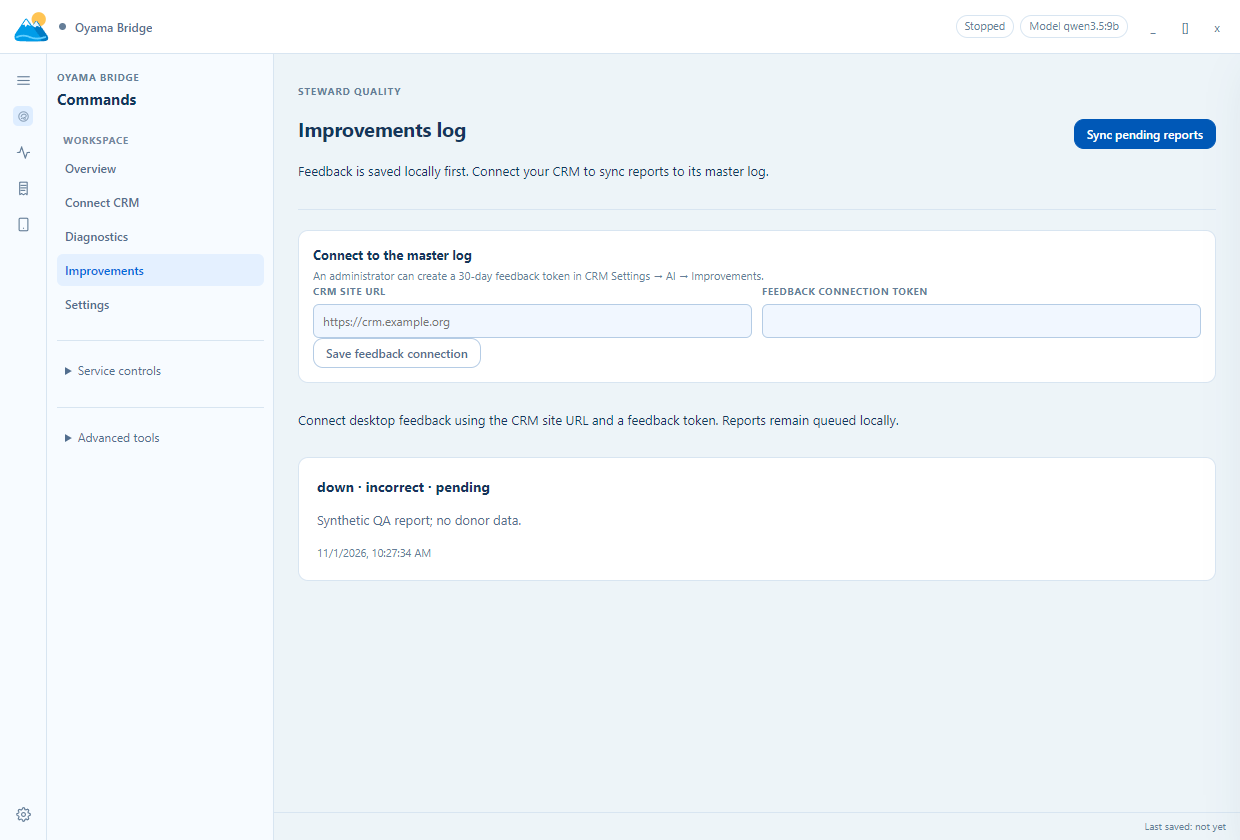
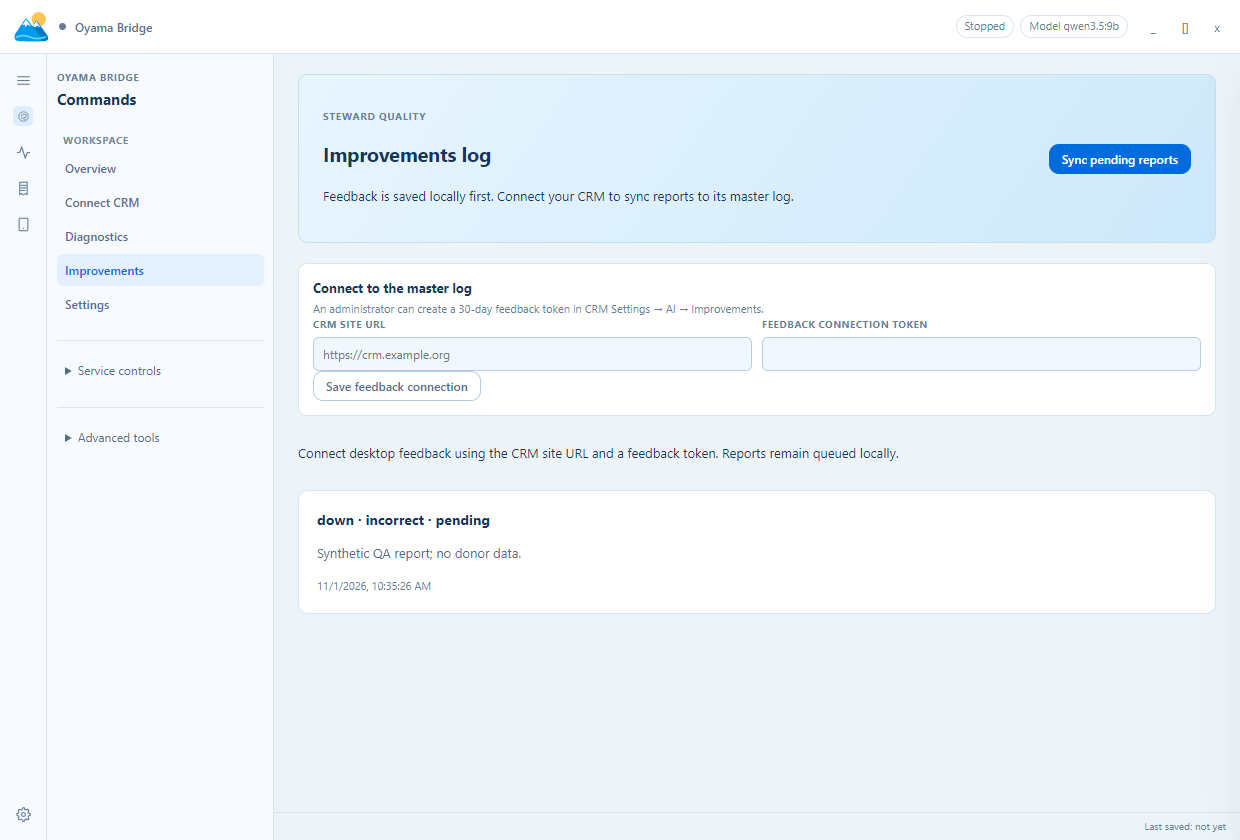
update

Changed region(s): [[0.2452, 0.0619, 0.9806, 0.4643], [0.2452, 0.4952, 0.7355, 0.7119]]

diff --git a/OyamaBridgeDesktopServer/index.html b/OyamaBridgeDesktopServer/index.html
@@ -92,8 +92,8 @@
         <section class="runtime-stage" aria-label="Ollama runtime control">
           <article class="runtime-banner panel">
             <div>
-              <span class="eyebrow">Reliable GPU control</span>
-              <h3>GPU pinning is only guaranteed when Oyama Bridge owns the Ollama process.</h3>
+              <span class="eyebrow">Runtime health</span>
+              <h3>Local AI service status</h3>
               <p id="ollamaRuntimeHintValue" class="panel-subtitle">Managed mode launches <span class="mono-inline">ollama serve</span> with isolated device visibility. External mode keeps your existing service unchanged.</p>
             </div>
             <div class="runtime-banner-actions">
@@ -106,7 +106,7 @@
             <div class="panel-head compact-head">
               <div>
                 <h2>Ollama Runtime</h2>
-                <p class="panel-subtitle">Mode, launch path, and GPU isolation contract.</p>
+                <p class="panel-subtitle">Service ownership and saved GPU configuration.</p>
               </div>
             </div>
             <div class="runtime-stack-grid">
@@ -183,7 +183,7 @@
           <article class="panel report-card wide">
             <div class="panel-head">
               <div>
-                <h2>Latency Trend</h2>
+                <h2>Response time</h2>
                 <p id="latencyTrendMeta" class="panel-subtitle">Waiting for request data...</p>
               </div>
             </div>
@@ -193,7 +193,7 @@
           <article class="panel report-card">
             <div class="panel-head">
               <div>
-                <h2>Status Mix</h2>
+                <h2>Request outcomes</h2>
                 <p id="statusMixMeta" class="panel-subtitle">No traffic yet.</p>
               </div>
             </div>
@@ -215,8 +215,8 @@
           <article class="panel live-log-shell">
             <div class="panel-head">
               <div>
-                <h2>Live Request Flow</h2>
-                <p class="panel-subtitle">Routes, status, latency, byte counts, and model metadata.</p>
+                <h2>Request history</h2>
+                <p class="panel-subtitle">Latest requests across restarts · up to 1,000 metadata records retained locally.</p>
               </div>
               <button class="btn ghost" type="button" data-tab-target="requests">Full Flow</button>
             </div>
@@ -233,7 +233,7 @@
           <aside class="panel generated-snapshot">
             <div class="panel-head">
               <div>
-                <h2>Generated Content</h2>
+                <h2>Recent responses</h2>
                 <p id="dashboardGeneratedMeta" class="panel-subtitle">Waiting for assistant output...</p>
               </div>
               <button class="btn ghost" type="button" data-tab-target="generated">Open Log</button>
@@ -250,7 +250,7 @@
               <h2>GPU Monitor</h2>
               <p id="gpuMonitorMeta" class="panel-subtitle">Reads live values from nvidia-smi.</p>
             </div>
-            <button class="btn ghost" type="button" data-tab-target="settings">CUDA Settings</button>
+            <button class="btn ghost" type="button" data-tab-target="settings">GPU settings</button>
           </div>
           <div id="gpuMonitorList" class="gpu-monitor-list">
             <p class="empty">No NVIDIA GPU telemetry available.</p>
@@ -322,7 +322,7 @@
           <article class="panel">
             <div class="panel-head">
               <div>
-                <h2>Generated Content Log</h2>
+                <h2>Recent responses Log</h2>
                 <p id="generatedContentMeta" class="panel-subtitle">Assistant output from chat/generate calls appears here in memory.</p>
               </div>
               <div class="row-inline">
@@ -398,7 +398,6 @@
 
           <section class="panel settings-card">
             <div class="panel-head"><h2>Model Runtime</h2></div>
-            <div class="field"><label for="stewardModelProfile">Steward v2 profile</label><select id="stewardModelProfile"><option value="">Keep configured models</option><option value="qwen3.8:27b">Quality candidate · Qwen3.8 27B · 24 GB+ GPU</option><option value="qwen3.5:9b">Balanced candidate · Qwen3.5 9B · 12–16 GB GPU</option></select><p class="field-hint">Sets both model fields; save to apply. Install the chosen tag with Ollama first. Model weights need additional memory for context; benchmark your actual workload. Existing saved settings are preserved.</p></div>
             <div class="form-grid">
               <div class="field"><label for="bridgeModelInput">Model</label><input id="bridgeModelInput" type="text" /></div>
               <div class="field"><label for="bridgeThinkingModelInput">Thinking Model</label><input id="bridgeThinkingModelInput" type="text" /></div>

diff --git a/OyamaDesktopCSharp/MainWindow.xaml b/OyamaDesktopCSharp/MainWindow.xaml
@@ -1,0 +1,1 @@
+<Window x:Class="OyamaDesktop.MainWindow" xmlns="http://schemas.microsoft.com/winfx/2006/xaml/presentation" xmlns:x="http://schemas.microsoft.com/winfx/2006/xaml" ThemeMode="Light" Title="Oyama Desktop CRM" FontFamily="Segoe UI Variable" FontSize="14" Width="1200" Height="800" MinWidth="760" MinHeight="600" Background="#F3F3F3"><DockPanel Margin="24"><Border DockPanel.Dock="Top" Background="#FFFFFF" CornerRadius="8" Padding="20" Margin="0,0,0,16"><StackPanel><TextBlock Text="OYAMA DESKTOP" FontSize="12"/><TextBlock x:Name="PageTitle" Text="Your connected workspace" FontSize="26" FontWeight="SemiBold"/><TextBlock Text="CRM and local tools, ready to grow with your team."/></StackPanel></Border><TextBlock DockPanel.Dock="Bottom" x:Name="Status" Text="Disconnected. Sign in to access your CRM." Margin="0,12" TextWrapping="Wrap"/><StackPanel DockPanel.Dock="Left" Width="155" Margin="0,0,16,0"><TextBlock Text="OYAMA CRM" FontWeight="Bold" FontSize="16" Margin="4,12"/><ListBox x:Name="Modules" DisplayMemberPath="Title" SelectionChanged="ModuleChanged" Background="Transparent" BorderThickness="0"/><Button Content="Sign out" Click="SignOut"/><TextBlock Text="Local files stay on&#10;this computer." Margin="8,20"/></StackPanel><Grid><Grid.RowDefinitions><RowDefinition Height="Auto"/><RowDefinition Height="Auto"/><RowDefinition Height="*"/><RowDefinition Height="Auto"/></Grid.RowDefinitions><StackPanel x:Name="LoginPanel"><TextBlock Text="CRM site"/><TextBox x:Name="Site" Text="https://www.crm.partnertpcc.com" AutomationProperties.Name="CRM site"/><WrapPanel><TextBlock Text="Email" VerticalAlignment="Center"/><TextBox x:Name="Email" Width="220" AutomationProperties.Name="Email"/><TextBlock Text="Password" VerticalAlignment="Center"/><PasswordBox x:Name="Password" Width="190" Padding="10" Margin="4" AutomationProperties.Name="Password"/><Button Content="Connect securely" Click="Connect"/></WrapPanel><WrapPanel x:Name="MfaPanel" Visibility="Collapsed"><TextBox x:Name="Code" Width="180" AutomationProperties.Name="Email verification code"/><Button Content="Verify code" Click="Verify"/></WrapPanel></StackPanel><WrapPanel Grid.Row="1"><TextBox x:Name="Search" Width="200" AutomationProperties.Name="Search CRM"/><Button Content="Search / refresh" Click="Refresh"/><Button Content="Open local file" Click="OpenFile"/><Button Content="Export rows" Click="Export"/></WrapPanel><DataGrid SelectionChanged="RecordSelected" AutoGeneratingColumn="GenerateColumn" ColumnWidth="*" HeadersVisibility="Column" RowHeight="38" ColumnHeaderHeight="38" x:Name="Records" Grid.Row="2" IsReadOnly="True" AutoGenerateColumns="True" CanUserAddRows="False" Background="White" RowBackground="White" AlternatingRowBackground="#FAFAFA" BorderBrush="#E5E5E5"/><StackPanel Grid.Row="2" HorizontalAlignment="Center" VerticalAlignment="Center" IsHitTestVisible="False"><StackPanel.Style><Style TargetType="StackPanel"><Setter Property="Visibility" Value="Collapsed"/><Style.Triggers><MultiDataTrigger><MultiDataTrigger.Conditions><Condition Binding="{Binding HasItems, ElementName=Records}" Value="False"/><Condition Binding="{Binding Visibility, ElementName=Records}" Value="Visible"/></MultiDataTrigger.Conditions><Setter Property="Visibility" Value="Visible"/></MultiDataTrigger></Style.Triggers></Style></StackPanel.Style><TextBlock Text="Your workspace, ready for work" FontSize="22" FontWeight="SemiBold" HorizontalAlignment="Center"/><TextBlock Text="Connect to load CRM records, or use Local files to work on this computer." TextWrapping="Wrap" MaxWidth="360" TextAlignment="Center" Margin="0,10"/></StackPanel><TextBox x:Name="Preview" Grid.Row="2" Visibility="Collapsed" IsReadOnly="True" AcceptsReturn="True" TextWrapping="Wrap" VerticalScrollBarVisibility="Auto"/><WrapPanel Grid.Row="3"><Button Content="Record details" Click="ShowDetails"/><Button Content="Previous" Click="Previous"/><TextBlock x:Name="PageLabel" VerticalAlignment="Center" Margin="10"/><Button Content="Next" Click="Next"/></WrapPanel></Grid></DockPanel></Window>

diff --git a/OyamaBridgeDesktopServer/styles.css b/OyamaBridgeDesktopServer/styles.css
@@ -1678,3 +1678,13 @@ body.sidebar-open .settings-backdrop { left: 274px; }
 .sidebar-utilities{border-top:1px solid var(--border);padding-top:12px}.sidebar-utilities summary{cursor:pointer;color:var(--ink-2);font-size:12px;padding:8px}.sidebar-utilities:not([open])>button{display:none}.bridge-next-step{display:flex;justify-content:space-between;align-items:center;gap:20px;border:1px solid var(--border);border-radius:10px;background:#e5f1ff;padding:18px 20px;margin-bottom:20px}.bridge-next-step strong{font-size:15px}.bridge-next-step p,.connect-crm-card>p{color:var(--ink-2);font-size:12px;line-height:1.6;margin:7px 0}.connect-crm-card{margin-bottom:20px}.connect-crm-card h2{font-size:22px}.connect-crm-card .btn{padding:10px 16px;margin-top:12px}#connectCrmStatus{overflow-wrap:anywhere}.response-feedback button{display:inline-flex;align-items:center;gap:6px}
 
 .legacy-pairing>summary{cursor:pointer;padding:10px 0;color:var(--ink-2);font-size:12px}.legacy-pairing:not([open])>:not(summary){display:none}
+
+/* Oyama CRM dashboard composition */
+.server-dashboard-header{background:linear-gradient(125deg,#e8f5ff,#cde9fa);border:1px solid #c5dfef;border-radius:10px;padding:24px;min-height:125px;position:relative;overflow:hidden}
+.server-title-block{background:#ffffffb8;border-radius:8px;padding:16px 20px}.server-title-block h2{color:#17375e;font-size:26px;letter-spacing:-.7px}
+.server-primary-actions{background:#ffffffc9;border-radius:8px;padding:6px}
+.server-metrics{grid-template-columns:repeat(4,minmax(0,1fr));gap:12px}.service-card{border-radius:9px;box-shadow:0 2px 5px #17375e08;padding:16px;min-height:95px}.service-card strong{color:#18385f}.card-label{letter-spacing:.04em}
+.runtime-stage{grid-template-columns:1fr}.runtime-stack{display:none}.runtime-banner h3{font-size:16px}.runtime-banner{padding:16px}
+.dashboard-reports{gap:14px}.dashboard-grid{gap:14px}.panel{border-radius:9px}.panel-head h2{font-size:15px;color:#17375e}
+.request-log-wrap th{background:#edf4fb;color:#355579}.request-log-wrap td{border-right:1px solid #e1eaf4}.request-log-wrap tr:nth-child(even){background:#f7faff}
+@media(max-width:900px){.server-metrics{grid-template-columns:repeat(2,minmax(0,1fr))}.server-dashboard-header{flex-wrap:wrap;gap:12px}}

diff --git a/OyamaBridgeDesktopServer/main.js b/OyamaBridgeDesktopServer/main.js
@@ -1,3 +1,4 @@
+const { readHistory, saveRequest } = require("./request-history");
 const { createImprovementsStore } = require("./improvements");
 const { BRIDGE_SYSTEM_POLICY, resolveBridgeSupport } = require("./steward-policy");
 // Main process for standalone Oyama Bridge app.
@@ -778,6 +779,7 @@ async function buildBridgeState() {
   const runtime = bridgeManager
     ? bridgeManager.getRuntimeState()
     : { running: false, startedAt: null, uptimeMs: 0, requestCount: 0, lastError: null, requestLog: [] };
+  runtime.requestLog = [...new Map([...(runtime.requestLog || []), ...readHistory(path.join(app.getPath("userData"), "request-history.json"))].map(row => [row.id, row])).values()].sort((a,b) => String(b.timestamp).localeCompare(String(a.timestamp))).slice(0,1000);
   const ollama = ollamaRuntimeManager
     ? await ollamaRuntimeManager.refreshHealth()
     : {
@@ -1007,6 +1009,7 @@ function emitBridgeEvent(payload) {
 
   if (payload && payload.type === "request" && payload.entry) {
     try {
+      saveRequest(path.join(app.getPath("userData"), "request-history.json"), payload.entry);
       recordUsageEntry(payload.entry);
       if (shouldCountAsModelActivity(payload.entry)) {
         scheduleIdleVramClear();

diff --git a/OyamaBridgeDesktopServer/renderer.js b/OyamaBridgeDesktopServer/renderer.js
@@ -1137,6 +1137,12 @@ function renderCudaSelector(cudaDevices, selectedValue) {
     bridgeCudaDeviceSelect.appendChild(option);
   });
 
+  if (selected !== "auto" && !Array.from(bridgeCudaDeviceSelect.options).some(option => option.value === selected)) {
+    const unavailable = document.createElement("option");
+    unavailable.value = selected;
+    unavailable.textContent = `GPU ${selected} — saved, currently unavailable`;
+    bridgeCudaDeviceSelect.appendChild(unavailable);
+  }
   bridgeCudaDeviceSelect.value = selected;
   updateActiveCudaReadout(cudaDevices, selected);
 }
@@ -2377,14 +2383,6 @@ window.addEventListener("keydown", (event) => {
 
 window.addEventListener("DOMContentLoaded", () => {
   void bootstrap();
-});
-
-// Explicit profile selection preserves existing saved deployments until staff apply a change.
-document.getElementById("stewardModelProfile")?.addEventListener("change", (event) => {
-  const model = event.target.value;
-  if (!["qwen3.8:27b", "qwen3.5:9b"].includes(model)) return;
-  document.getElementById("bridgeModelInput").value = model;
-  document.getElementById("bridgeThinkingModelInput").value = model;
 });
 
 function appendResponseFeedback(item, entry) {

diff --git a/OyamaBridgeDesktopServer/request-history.js b/OyamaBridgeDesktopServer/request-history.js
@@ -1,0 +1,12 @@
+const fs = require("node:fs");
+const fields = ["id", "requestId", "timestamp", "method", "path", "statusCode", "durationMs", "model", "errorClass", "bodyBytes", "responseBytes", "cudaDeviceRequested", "cudaDeviceApplied"];
+function readHistory(file) {
+  try { const rows = JSON.parse(fs.readFileSync(file, "utf8")); return Array.isArray(rows) ? rows.slice(0,1000) : []; } catch { return []; }
+}
+function saveRequest(file, entry) {
+  const safe = Object.fromEntries(fields.filter(key => typeof entry[key] === "string" || typeof entry[key] === "number").map(key => [key, typeof entry[key] === "string" ? entry[key].slice(0,300) : entry[key]]));
+  safe.path = String(safe.path || "/").split("?")[0];
+  const rows = [safe, ...readHistory(file).filter(row => row.id !== safe.id)].slice(0,1000);
+  fs.writeFileSync(file + ".tmp", JSON.stringify(rows), "utf8"); fs.renameSync(file + ".tmp", file);
+}
+module.exports = {readHistory, saveRequest};

diff --git a/OyamaBridgeDesktopServer/tests/request-history.test.js b/OyamaBridgeDesktopServer/tests/request-history.test.js
@@ -1,0 +1,2 @@
+const {test}=require("node:test"); const assert=require("node:assert/strict"); const fs=require("node:fs"); const os=require("node:os"); const path=require("node:path"); const {saveRequest,readHistory}=require("../request-history");
+test("history survives reload and excludes private payloads",()=>{ const dir=fs.mkdtempSync(path.join(os.tmpdir(),"oyama-history-")); try {const file=path.join(dir,"history.json");saveRequest(file,{id:"a",path:"/api/chat?key=secret",statusCode:200,generatedPreview:"private",apiKey:"secret"});delete require.cache[require.resolve("../request-history")];const rows=require("../request-history").readHistory(file);assert.deepEqual(rows,[{id:"a",path:"/api/chat",statusCode:200}]);saveRequest(file,{id:"a",statusCode:401});assert.equal(readHistory(file).length,1);}finally{fs.rmSync(dir,{recursive:true,force:true});}});

diff --git a/OyamaDesktopCSharp/App.xaml b/OyamaDesktopCSharp/App.xaml
@@ -1,0 +1,1 @@
+<Application x:Class="OyamaDesktop.App" xmlns="http://schemas.microsoft.com/winfx/2006/xaml/presentation" xmlns:x="http://schemas.microsoft.com/winfx/2006/xaml" />

diff --git a/OyamaDesktopCSharp/MainWindow.xaml.cs b/OyamaDesktopCSharp/MainWindow.xaml.cs
@@ -1,0 +1,38 @@
+using System.Data;
+using System.IO;
+using System.Text.Json;
+using System.Windows;
+using System.Windows.Controls;
+using Microsoft.Win32;
+using OyamaDesktop.Models;
+using OyamaDesktop.Services;
+namespace OyamaDesktop;
+public partial class MainWindow : Window {
+ CrmClient? client; string ticket=""; int page=1; bool busy; DataTable table=new();
+ WorkspaceModule? Selected => Modules.SelectedItem as WorkspaceModule;
+ public MainWindow() { InitializeComponent(); Modules.ItemsSource=SuiteModules.All; Modules.SelectedIndex=0; Closed+=(_,_)=>client?.Dispose(); }
+ async Task Run(Func<Task> action) { if(busy)return; busy=true; IsEnabled=false; Status.Text="Working…"; try {await action();}catch(Exception ex){Status.Text=ex.Message;}finally{busy=false;IsEnabled=true;} }
+ async void Connect(object sender,RoutedEventArgs e) => await Run(async()=>{ client?.Dispose(); client=new(new Uri(Site.Text.Trim())); var data=await client.SignInAsync(Email.Text.Trim(),Password.Password); Password.Clear(); if(data.TryGetProperty("mfaRequired",out var required)&&required.GetBoolean()){ticket=data.GetProperty("mfaTicket").GetString()??"";MfaPanel.Visibility=Visibility.Visible;Status.Text="Enter the verification code sent to your email.";}else await Connected(); });
+ async void Verify(object sender,RoutedEventArgs e)=>await Run(async()=>{if(client is null) return;await client.VerifyAsync(ticket,Code.Text.Trim());Code.Clear();await Connected();});
+ async Task Connected(){LoginPanel.Visibility=Visibility.Collapsed;MfaPanel.Visibility=Visibility.Collapsed;ticket="";await Load();}
+ async Task Load(){if(Selected?.ApiPath is not string endpoint){Status.Text="Local files · choose a text, CSV, JSON, or Markdown file. Files are never uploaded.";return;} if(client is null || LoginPanel.Visibility==Visibility.Visible){Status.Text="Sign in before loading CRM records.";return;} var json=await client.SendAsync(endpoint+"?page="+page+"&pageSize=50&limit=50&search="+Uri.EscapeDataString(Search.Text));var rows=json.ValueKind==JsonValueKind.Array?json:json.GetProperty("items");table=new();foreach(var row in rows.EnumerateArray())foreach(var field in row.EnumerateObject())if(!table.Columns.Contains(field.Name)&&field.Value.ValueKind is not (JsonValueKind.Array or JsonValueKind.Object))table.Columns.Add(field.Name);foreach(var row in rows.EnumerateArray()){var record=table.NewRow();foreach(DataColumn col in table.Columns)if(row.TryGetProperty(col.ColumnName,out var value))record[col]=value.ToString();table.Rows.Add(record);} Records.ItemsSource=table.DefaultView;PageLabel.Text=$"Page {page} · {table.Rows.Count} rows";Status.Text="Connected · showing this page only. Server permissions apply.";}
+ async void ModuleChanged(object sender,SelectionChangedEventArgs e){if(Records is null)return;page=1;table=new();Records.ItemsSource=null;PageTitle.Text=Selected?.Title??"Workspace";Preview.Visibility=Selected?.Id=="files"?Visibility.Visible:Visibility.Collapsed;Records.Visibility=Selected?.Id=="files"?Visibility.Collapsed:Visibility.Visible;await Run(Load);}
+ async void Refresh(object sender,RoutedEventArgs e){page=1;await Run(Load);}
+ async void Previous(object sender,RoutedEventArgs e){if(page>1){page--;await Run(Load);}}
+ async void Next(object sender,RoutedEventArgs e){if(table.Rows.Count==50){page++;await Run(Load);}}
+ async void OpenFile(object sender,RoutedEventArgs e){var dialog=new OpenFileDialog{Filter="Text files|*.txt;*.csv;*.json;*.md;*.log"};if(dialog.ShowDialog()!=true)return;await Run(async()=>{var text=await LocalWorkspace.ReadPreviewAsync(dialog.FileName);Modules.SelectedItem=SuiteModules.All.First(m=>m.Id=="files");Preview.Text=text;Status.Text=$"Local preview · {Path.GetFileName(dialog.FileName)} · never uploaded";});}
+ async void Export(object sender,RoutedEventArgs e){if(table.Rows.Count==0){Status.Text="Load CRM rows before exporting.";return;}var dialog=new SaveFileDialog{Filter="CSV|*.csv",FileName="oyama-records.csv"};if(dialog.ShowDialog()!=true)return;await Run(async()=>{static string Cell(string value){if(value.Length>0&&"=+-@".Contains(value[0]))value="'"+value;return "\""+value.Replace("\"","\"\"")+"\"";}var lines=new List<string>{string.Join(",",table.Columns.Cast<DataColumn>().Select(c=>Cell(c.ColumnName)))};lines.AddRange(table.Rows.Cast<DataRow>().Select(row=>string.Join(",",row.ItemArray.Select(v=>Cell(v?.ToString()??"")))));await File.WriteAllLinesAsync(dialog.FileName,lines);Status.Text="Visible page exported locally.";});}
+ void GenerateColumn(object? sender, DataGridAutoGeneratingColumnEventArgs e) {
+  if(e.PropertyName.EndsWith("Id",StringComparison.OrdinalIgnoreCase) || e.PropertyName=="id") { e.Cancel=true;return; }
+  e.Column.Header=System.Text.RegularExpressions.Regex.Replace(e.PropertyName,"([a-z])([A-Z])","$1 $2");
+  e.Column.MinWidth=120;
+ }
+ void RecordSelected(object sender,SelectionChangedEventArgs e) { if(Records.SelectedItem is DataRowView) Status.Text="Record selected · use Record details to inspect all returned fields."; }
+ void ShowDetails(object sender,RoutedEventArgs e) {
+  if(Records.SelectedItem is not DataRowView row){Status.Text="Select a record first.";return;}
+  var panel=new StackPanel{Margin=new Thickness(24)};
+  foreach(DataColumn column in row.DataView.Table!.Columns) {panel.Children.Add(new TextBlock{Text=column.ColumnName,FontWeight=FontWeights.SemiBold,Margin=new Thickness(0,10,0,3)});panel.Children.Add(new TextBox{Text=row[column.ColumnName]?.ToString()??"",IsReadOnly=true,TextWrapping=TextWrapping.Wrap});}
+  new Window{Owner=this,Title="Record details · read only",Width=560,Height=640,WindowStartupLocation=WindowStartupLocation.CenterOwner,Content=new ScrollViewer{Content=panel},Background=System.Windows.Media.Brushes.White}.ShowDialog();
+ }
+ async void SignOut(object sender,RoutedEventArgs e)=>await Run(async()=>{try{if(client is not null)await client.SendAsync("auth/logout",new{});}finally{client?.Dispose();client=null;Records.ItemsSource=null;table=new();LoginPanel.Visibility=Visibility.Visible;MfaPanel.Visibility=Visibility.Collapsed;ticket="";Password.Clear();Code.Clear();Status.Text="Signed out. Local session cleared.";}});
+}

diff --git a/OyamaDesktopCSharp/Services/CrmClient.cs b/OyamaDesktopCSharp/Services/CrmClient.cs
@@ -1,0 +1,27 @@
+using System.Net;
+using System.Net.Http;
+using System.Net.Http.Headers;
+using System.Net.Http.Json;
+using System.Text.Json;
+namespace OyamaDesktop.Services;
+public sealed class CrmClient : IDisposable {
+ readonly HttpClient http;
+ public CrmClient(Uri site) { if (site.Scheme != "https" && !(site.IsLoopback && site.Scheme == "http")) throw new ArgumentException("Use HTTPS, or HTTP for localhost development."); if (!string.IsNullOrEmpty(site.UserInfo) || site.AbsolutePath != "/" || site.Query.Length > 0 || site.Fragment.Length > 0) throw new ArgumentException("Enter the CRM site origin only."); http = new(new HttpClientHandler { CookieContainer = new CookieContainer(), AllowAutoRedirect = false }) { BaseAddress = new Uri(site, "api/"), Timeout = TimeSpan.FromSeconds(30) }; }
+ public async Task<JsonElement> SendAsync(string path, object? body = null, CancellationToken ct = default) {
+ using var initial = body is null ? await http.GetAsync(path, ct) : await http.PostAsJsonAsync(path, body, ct);
+ HttpResponseMessage? retry = null;
+ if(initial.StatusCode == HttpStatusCode.Unauthorized && !path.StartsWith("auth/")) {
+  using var refresh=await http.PostAsJsonAsync("auth/refresh",new {},ct);
+  if(refresh.IsSuccessStatusCode) { using var document=JsonDocument.Parse(await refresh.Content.ReadAsStringAsync(ct)); SetToken(document.RootElement.GetProperty("data")); retry=body is null ? await http.GetAsync(path,ct) : await http.PostAsJsonAsync(path,body,ct); }
+ }
+ using var renewed=retry;
+ var response=renewed??initial;
+ var text = await response.Content.ReadAsStringAsync(ct);
+ if (!response.IsSuccessStatusCode) throw new InvalidOperationException($"CRM request failed ({(int)response.StatusCode}). Check sign-in, permissions, and connection.");
+ using var doc = JsonDocument.Parse(text); return doc.RootElement.Clone();
+ }
+ public async Task<JsonElement> SignInAsync(string email, string password) { var result = await SendAsync("auth/login", new {email,password}); var data=result.GetProperty("data"); SetToken(data); return data; }
+ public async Task VerifyAsync(string ticket, string code) { var result=await SendAsync("auth/mfa/verify",new{ticket,code}); SetToken(result.GetProperty("data")); }
+ void SetToken(JsonElement data) { if(data.TryGetProperty("accessToken",out var token)) http.DefaultRequestHeaders.Authorization=new AuthenticationHeaderValue("Bearer",token.GetString()); }
+ public void Dispose() => http.Dispose();
+}

diff --git a/OyamaDesktopCSharp/App.xaml.cs b/OyamaDesktopCSharp/App.xaml.cs
@@ -1,0 +1,19 @@
+using System.Windows;
+using System.Windows.Media;
+using System.Windows.Media.Imaging;
+using System.IO;
+namespace OyamaDesktop;
+public partial class App : Application {
+ protected override void OnStartup(StartupEventArgs e) {
+  if(e.Args.Length==2 && e.Args[0]=="--capture") {
+
+   var window=new MainWindow();window.Show();
+   window.Dispatcher.InvokeAsync(()=>{
+    var bitmap=new RenderTargetBitmap((int)window.ActualWidth,(int)window.ActualHeight,96,96,PixelFormats.Pbgra32);bitmap.Render(window);
+    var encoder=new PngBitmapEncoder();encoder.Frames.Add(BitmapFrame.Create(bitmap));using(var stream=File.Create(e.Args[1]))encoder.Save(stream);Shutdown();
+   },System.Windows.Threading.DispatcherPriority.ApplicationIdle);
+  }
+  else new MainWindow().Show();
+  base.OnStartup(e);
+ }
+}

diff --git a/OyamaDesktopCSharp/Services/LocalWorkspace.cs b/OyamaDesktopCSharp/Services/LocalWorkspace.cs
@@ -1,0 +1,9 @@
+using System.IO;
+namespace OyamaDesktop.Services;
+public static class LocalWorkspace {
+ public static async Task<string> ReadPreviewAsync(string path) {
+ var info=new FileInfo(path); if(info.Length>2*1024*1024) throw new InvalidOperationException("Preview supports files up to 2 MB.");
+ if(!new[]{".txt",".csv",".json",".md",".log"}.Contains(info.Extension.ToLowerInvariant())) throw new InvalidOperationException("Choose a text, CSV, JSON, Markdown, or log file.");
+ return await File.ReadAllTextAsync(path);
+ }
+}
